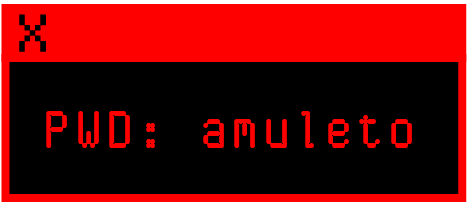
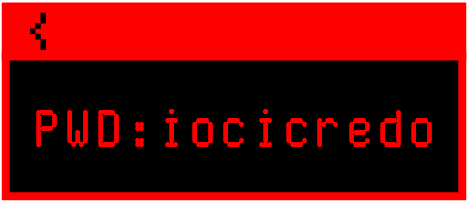
iocicredo

diff --git a/sketch.js b/sketch.js
@@ -78,7 +78,7 @@ function showImg(){
 
 //funzione che va alla pagina finale se si inserisce la password giusta
 function goToPage(){
-  if(pass.value() == ("amuleto")){
+  if(pass.value() == ("iocicredo")){
     window.open('index_2.html', "_self");
   }
 }
